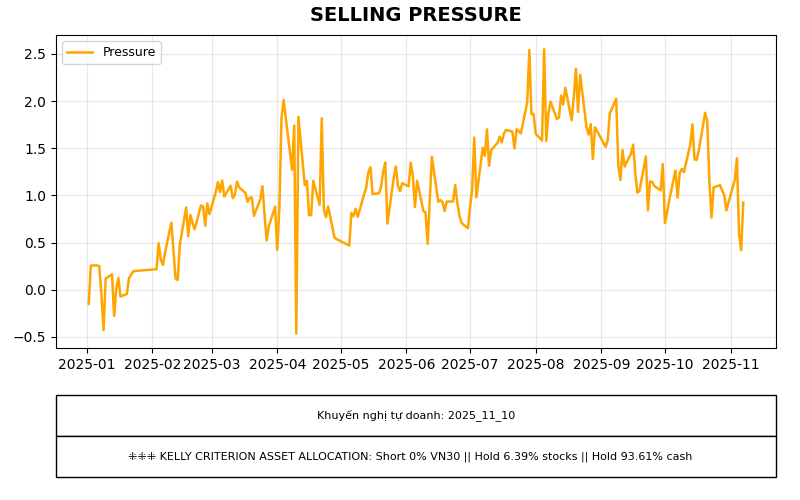
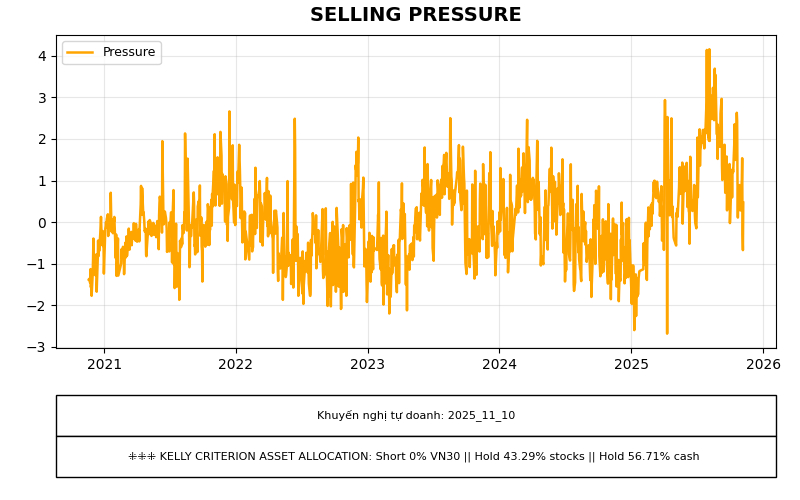
10/11

diff --git a/asset_allocation/risk.py b/asset_allocation/risk.py
@@ -30,6 +30,8 @@ total_outstanding_share = outstanding_share['so_cp_luu_hanh'].sum()
 """ Merge & calculate """
 merge = pd.merge(sell_spread, vnindex, on='date')
 merge.set_index('date', inplace=True)
+merge.index = pd.to_datetime(merge.index)
+merge = merge.loc[merge.index >= pd.Timestamp("2020-11-19")]
 # merge = merge.loc[regime_changed_date:] #"2025-07-25"
 merge['total_buy_vol'] = merge[['vn_retail_buy_vol', 'fr_retail_buy_vol', 'vn_institute_buy_vol', 'fr_institute_buy_vol']].sum(axis=1)
 merge['vol_log'] = np.log(merge['total_buy_vol'])
@@ -47,25 +49,25 @@ merge.drop(columns=['vn_retail_buy_vol', 'vn_retail_buy_value', 'vn_retail_sell_
 mean_val = merge['z_score_vol'].mean()
 latest_vol = merge['z_score_vol'].iloc[-1]
 
-""" Calculate bouncing power """
-_, _, vol_mean = calculate_threshold(merge['z_score_vol'])
-vol_min = -2
-vol_max = 2.5
-if latest_vol <= vol_min:
-    losing_percentage = 0
-elif vol_max > latest_vol > vol_min:
-    losing_percentage = percentage_position(latest_vol, vol_min, vol_max)
-elif latest_vol >= vol_max:
-    losing_percentage = 100
+# """ Calculate bouncing power """
+# _, _, vol_mean = calculate_threshold(merge['z_score_vol'])
+# vol_min = -2
+# vol_max = 2.5
+# if latest_vol <= vol_min:
+#     losing_percentage = 0
+# elif vol_max > latest_vol > vol_min:
+#     losing_percentage = percentage_position(latest_vol, vol_min, vol_max)
+# elif latest_vol >= vol_max:
+#     losing_percentage = 100
 
-# print(f"⁜⁜⁜ Losing percentage: {losing_percentage:.2f}% ⁜⁜⁜")
+# # print(f"⁜⁜⁜ Losing percentage: {losing_percentage:.2f}% ⁜⁜⁜")
 
-if losing_percentage > 50:
-    bouncing_power = losing_percentage
-    power_index = f"⁜ GOING DOWN PROBABILITY: {bouncing_power:.2f}%"
-else:
-    bouncing_power = 100 - losing_percentage
-    power_index = f"⁜ GOING UP PROBABILITY: {bouncing_power:.2f}% "
+# if losing_percentage > 50:
+#     bouncing_power = losing_percentage
+#     power_index = f"⁜ GOING DOWN PROBABILITY: {bouncing_power:.2f}%"
+# else:
+#     bouncing_power = 100 - losing_percentage
+#     power_index = f"⁜ GOING UP PROBABILITY: {bouncing_power:.2f}% "
 
 """ Calculate risk """
 risk_min, risk_max, risk_mean = calculate_threshold(merge['z_score_vol'])

diff --git a/asset_allocation/main.py b/asset_allocation/main.py
@@ -1,4 +1,4 @@
-from risk import losing_percentage, risk, merge
+from risk import risk, merge
 from regime.checker import regime_changed_date
 import matplotlib.pyplot as plt
 from datetime import date
@@ -43,19 +43,12 @@ else:
 # print(kelly)
 today_str = date.today().strftime("%Y-%m-%d")
 today_formatted = date.today().strftime("%Y_%m_%d")
-# tomorrow_str = (date.today() + pd.Timedelta(days=1)).strftime("%Y_%m_%d")
 
 # Table data
 table_data = [
     [asset_allocation]
 ]
 column_header = [f"Khuyến nghị tự doanh: {today_formatted}"]
-# print(regime_changed_date)
-# print(merge)
-merge.index = pd.to_datetime(merge.index)
-merge = merge.loc[merge.index >= pd.Timestamp("2025-01-01")]
-# print(df_cut)
-# merge = merge.loc["2025-01-01":] #"2025-07-25"
 
 # ================================
 # Figure and layout (2 rows: plot + table)
@@ -69,7 +62,6 @@ ax_table = fig.add_subplot(gs[1])
 # --- Plot SELLING PRESSURE ---
 ax_plot.plot(merge.index, merge['z_score_vol'], label='Pressure', color='orange', linewidth=1.8)
 ax_plot.set_title('SELLING PRESSURE', fontsize=14, fontweight='bold', pad=10)
-# ax_plot.set_ylabel('SCORE')
 ax_plot.grid(True, alpha=0.3)
 ax_plot.legend(loc='upper left', fontsize=9)
 
@@ -89,8 +81,6 @@ plt.subplots_adjust(left=0.07, right=0.97, top=0.93, bottom=0.05, hspace=0.25)
 # ================================
 # Save exactly at OUT_W × OUT_H pixels
 # ================================
-# out_dir = "/"
-# out_name = f"selling_pressure_{OUT_W}x{OUT_H}.png"
 out_path = f"../selling_pressure_{today_formatted}.png" #os.path.join(out_dir, out_name)
 
 fig.savefig(out_path, dpi=DPI)
